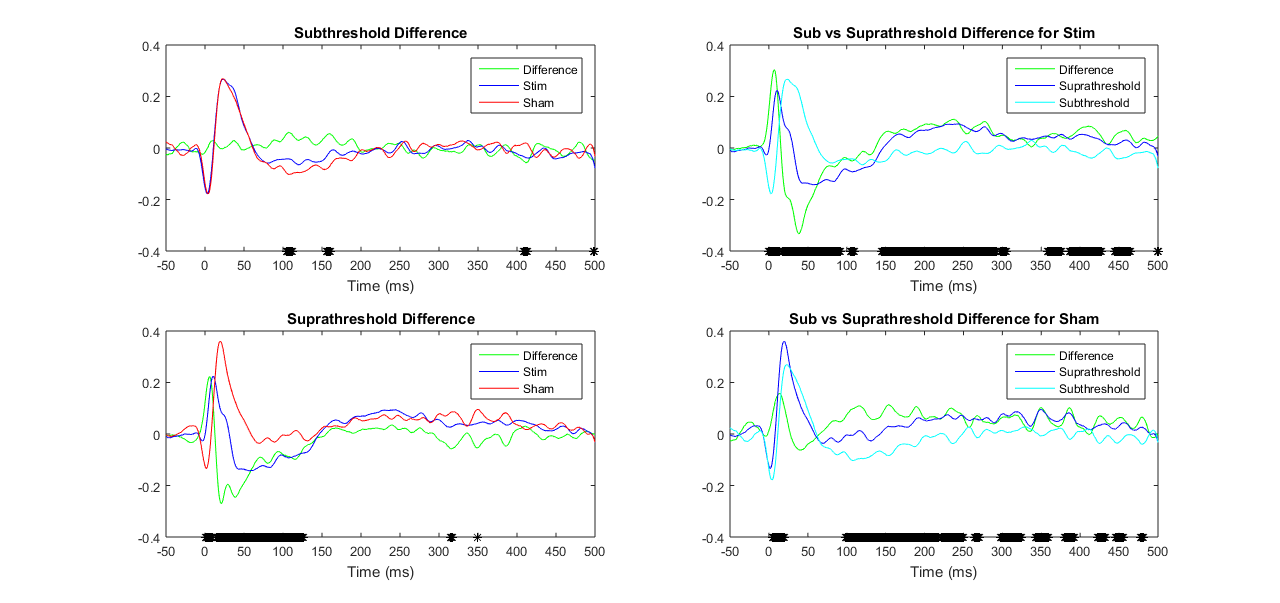
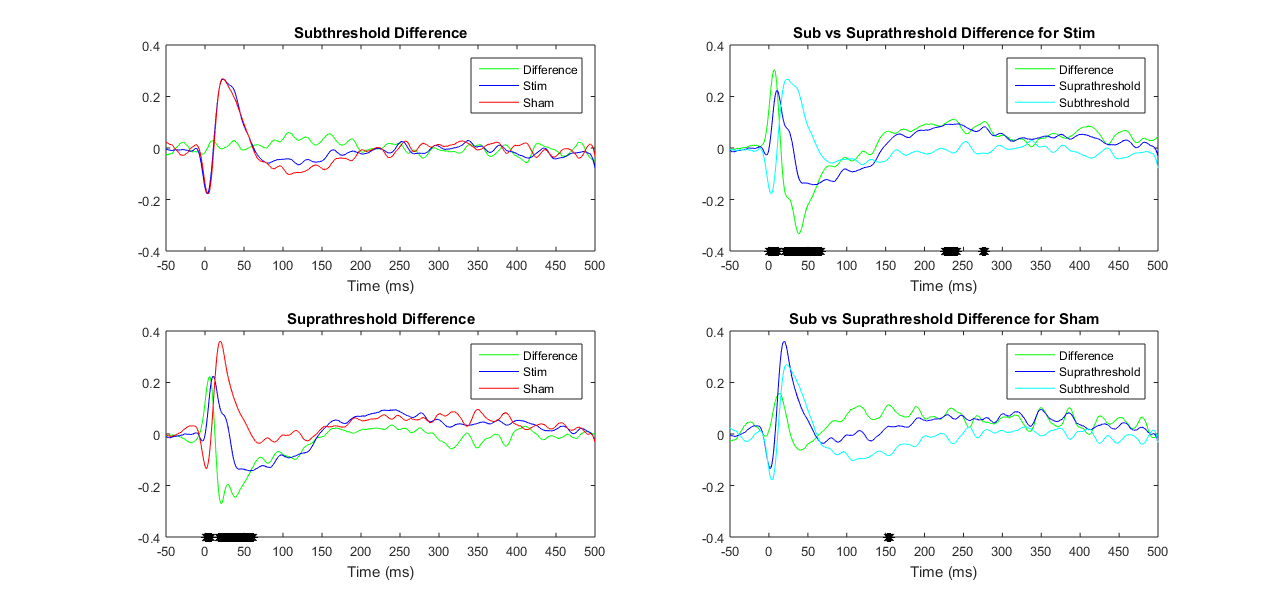
Updated code to include pvalue control and reran the figures

diff --git a/stats_SFN.m b/stats_SFN.m
@@ -11,6 +11,7 @@
 %%difference between the two wave forms and then take a paired t-test
 
 %Stim=avgSham(1:9,(tbase+1)-50:(tbase+1)+ta);
+pvalue=.05/1000;
 
 crop = (tbase+1)-50:(tbase+1)+ta;
 compcrop = (tbase+1):(tbase+1)+ta;
@@ -44,7 +45,8 @@ diffSham=mean(wShamSup)-mean(wShamSub);
 figure
 subplot(2,2,1)
 plot(-50:ta,diffSub(crop),'g', -50:ta, mean(wStimSub(:,crop)), 'b',...
-    -50:ta, mean(wShamSub(:,crop)) ,'r',compcrop(Psub<0.05)-(tbase+1),-0.4,'k*')
+    -50:ta, mean(wShamSub(:,crop)) ,'r',...
+    compcrop(Psub<pvalue)-(tbase+1),-0.4*ones(size(compcrop(Psub<pvalue))),'k*')
 legend('Difference','Stim','Sham')
 title('Subthreshold Difference')
 xlabel('Time (ms)')
@@ -52,7 +54,8 @@ axis([-50 ta -0.4 0.4])
 
 subplot(2,2,3)
 plot(-50:ta,diffSup(crop),'g', -50:ta, mean(wStimSup(:,crop)), 'b',...
-    -50:ta, mean(wShamSup(:,crop)) ,'r',compcrop(Psup<0.05)-(tbase+1),-0.4,'k*')
+    -50:ta, mean(wShamSup(:,crop)) ,'r',...
+    compcrop(Psup<pvalue)-(tbase+1),-0.4*ones(size(compcrop(Psup<pvalue))),'k*')
 legend('Difference','Stim','Sham')
 title('Suprathreshold Difference')
 xlabel('Time (ms)')
@@ -60,7 +63,8 @@ axis([-50 ta -0.4 0.4])
 
 subplot(2,2,2)
 plot(-50:ta,diffStim(crop),'g', -50:ta, mean(wStimSup(:,crop)), 'b',...
-    -50:ta, mean(wStimSub(:,crop)) ,'c',compcrop(PcompSt<0.05)-(tbase+1),-0.4,'k*')
+    -50:ta, mean(wStimSub(:,crop)) ,'c',...
+    compcrop(PcompSt<pvalue)-(tbase+1),-0.4*ones(size(compcrop(PcompSt<pvalue))),'k*')
 legend('Difference','Suprathreshold','Subthreshold')
 title('Sub vs Suprathreshold Difference for Stim')
 xlabel('Time (ms)')
@@ -68,7 +72,8 @@ axis([-50 ta -0.4 0.4])
 
 subplot(2,2,4)
 plot(-50:ta,diffSham(crop),'g', -50:ta, mean(wShamSup(:,crop)), 'b',...
-    -50:ta, mean(wShamSub(:,crop)) ,'c',compcrop(PcompSh<0.05)-(tbase+1),-0.4,'k*')
+    -50:ta, mean(wShamSub(:,crop)) ,'c',...
+    compcrop(PcompSh<pvalue)-(tbase+1),-0.4*ones(size(compcrop(PcompSh<pvalue))),'k*')
 legend('Difference','Suprathreshold','Subthreshold')
 title('Sub vs Suprathreshold Difference for Sham')
 xlabel('Time (ms)')
@@ -104,7 +109,7 @@ figure
 subplot(2,2,1)
 plot(-50:ta,diffSub(crop),'g', -50:ta, mean(wStimSub(:,crop)), 'b',...
     -50:ta, mean(wShamSub(:,crop)) ,'r',...
-    WindTime(PsubW<0.05),-0.4*ones(size(WindTime(PsubW<0.05))),'k*')
+    WindTime(PsubW<pvalue),-0.4*ones(size(WindTime(PsubW<pvalue))),'k*')
 legend('Difference','Stim','Sham')
 title(['Subthreshold Difference with Sliding Window=' num2str(window) 'ms'])
 xlabel('Time (ms)')
@@ -113,7 +118,7 @@ axis([-50 ta -0.4 0.4])
 subplot(2,2,3)
 plot(-50:ta,diffSup(crop),'g', -50:ta, mean(wStimSup(:,crop)), 'b',...
     -50:ta, mean(wShamSup(:,crop)) ,'r',...
-    WindTime(PsupW<0.05),-0.4*ones(size(WindTime(PsupW<0.05))),'k*')
+    WindTime(PsupW<pvalue),-0.4*ones(size(WindTime(PsupW<pvalue))),'k*')
 legend('Difference','Stim','Sham')
 title('Suprathreshold Difference')
 xlabel('Time (ms)')
@@ -122,7 +127,7 @@ axis([-50 ta -0.4 0.4])
 subplot(2,2,2)
 plot(-50:ta,diffStim(crop),'g', -50:ta, mean(wStimSup(:,crop)), 'b',...
     -50:ta, mean(wStimSub(:,crop)) ,'c',...
-    WindTime(PcompStW<0.05),-0.4*ones(size(WindTime(PcompStW<0.05))),'k*')
+    WindTime(PcompStW<pvalue),-0.4*ones(size(WindTime(PcompStW<pvalue))),'k*')
 legend('Difference','Suprathreshold','Subthreshold')
 title('Sub vs Suprathreshold Difference for Stim')
 xlabel('Time (ms)')
@@ -131,7 +136,7 @@ axis([-50 ta -0.4 0.4])
 subplot(2,2,4)
 plot(-50:ta,diffSham(crop),'g', -50:ta, mean(wShamSup(:,crop)), 'b',...
     -50:ta, mean(wShamSub(:,crop)) ,'c',...
-    WindTime(PcompShW<0.05),-0.4*ones(size(WindTime(PcompShW<0.05))),'k*')
+    WindTime(PcompShW<pvalue),-0.4*ones(size(WindTime(PcompShW<pvalue))),'k*')
 legend('Difference','Suprathreshold','Subthreshold')
 title('Sub vs Suprathreshold Difference for Sham')
 xlabel('Time (ms)')
